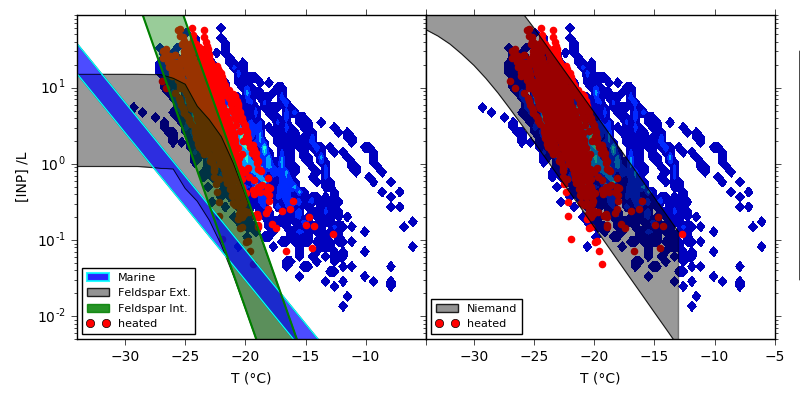
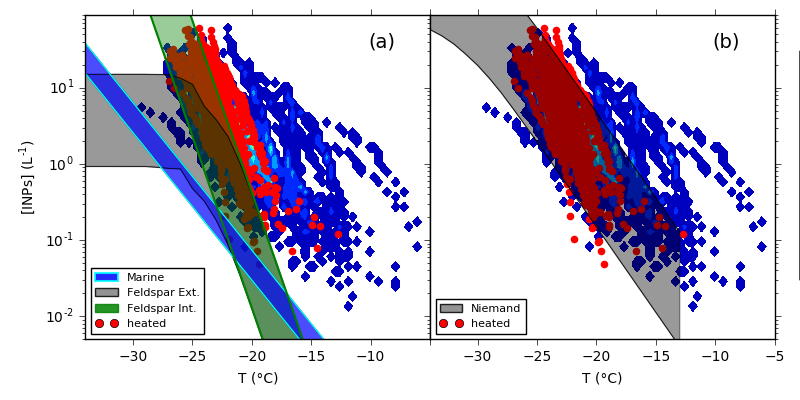
dfasfad

diff --git a/contour4.py b/contour4.py
@@ -275,13 +275,15 @@ ax1.set_yscale('log')
 ax1.set_xlim(-34,-5)
 ax1.set_ylim(0.005,90)
 ax1.set_xlabel('T ('+degree_sign+'C)')
-ax1.set_ylabel('[INP] /L')
+ax1.set_ylabel('[INPs] ($\mathregular{L^{-1}}$)')
 ax1.get_yaxis().set_tick_params(which='both', direction='out')
 ax1.get_xaxis().set_tick_params(which='both', direction='out')
 #ax1.set_title("Feldspar + Marine", fontsize=14)
 ttl1 = ax1.title
 ttl1.set_position([.5, 1.05])
-
+ax1.text(.9,.9,'(a)',
+    horizontalalignment='right',
+    transform=ax1.transAxes, fontsize =14)
 
 
 '''*********************NIEMAND w/ heat************************************************'''
@@ -300,6 +302,7 @@ ax3.set_yscale('log')
 ax3.set_xlim(-34,-5)
 ax3.set_ylim(0.005,90)
 ax3.set_xlabel('T ('+degree_sign+'C)')
+
 #ax0.set_ylabel('[INP] /L')
 ax3.get_yaxis().set_tick_params(which='both', direction='out')
 ax3.get_xaxis().set_tick_params(which='both', direction='out')
@@ -316,7 +319,9 @@ cb = fig.colorbar(p1, cax = cbaxes, label='% of Total Observations', format ='%0
 ticks =cb.locator()
 
 
-
+ax3.text(.9,.9,'(b)',
+    horizontalalignment='right',
+    transform=ax3.transAxes, fontsize =14)
 #p2 =ax2.scatter(x, y, c=z, s=40, edgecolor='', cmap='OrRd')
 
 #ax2.scatter(DMT_T,DMT_I, marker="x", color = "red")
@@ -408,7 +413,7 @@ p1=ax1.contourf(x,y,z, levels = levels, extend = 'max', cmap ='jet', alpha =1 )
 plt.yscale('log'), plt.xlim(-30,-5), plt.ylim(0.01, 300)
 #plt.gca().xaxis.get_major_ticks()[-1].label1.set_visible(False)
 ax1.set_xlabel('T ('+degree_sign+'C)')
-ax1.set_ylabel('[INP] /L')
+ax1.set_ylabel('[INPs] ($\mathregular{L^{-1}}$)')
 #ax1.axes.get_yaxis().set_ticks([])
 
 xticks = ax1.xaxis.get_major_ticks()
@@ -425,50 +430,50 @@ cb = fig1.colorbar(p1, cax = cbaxes,ticks=ticks, label='% of Total Observations'
 #ax1.text(-29, 0.015, '(a)', fontsize = 12)
 
 
-ax2=plt.subplot(142)
-p1=ax2.contourf(x,y,z, levels = levels, extend = 'max', cmap ='jet', alpha =1 )
-ax2.scatter(data_key2['T'], data_key2['INP'], s=14, color='red', zorder=1, label = 'Heated')
+ax5=plt.subplot(142)
+p1=ax5.contourf(x,y,z, levels = levels, extend = 'max', cmap ='jet', alpha =1 )
+ax5.scatter(data_key2['T'], data_key2['INP'], s=14, color='red', zorder=1, label = 'Heated')
 plt.yscale('log'), plt.xlim(-30,-5), plt.ylim(0.01, 300)
 #plt.gca().xaxis.get_major_ticks()[-1].label1.set_visible(False)
-ax2.axes.get_yaxis().set_ticks([])
-ax2.set_xlabel('T ('+degree_sign+'C)')
-xticks = ax2.xaxis.get_major_ticks()
+ax5.axes.get_yaxis().set_ticks([])
+ax5.set_xlabel('T ('+degree_sign+'C)')
+xticks = ax5.xaxis.get_major_ticks()
 xticks[0].set_visible(False)
-plt.legend()
+plt.legend(fontsize =8)
 plt.title('(b) Heated samples')
 
 
-ax3=plt.subplot(143)
+ax6=plt.subplot(143)
 plt.scatter(lowruns_heated_data[:,0], lowruns_heated_data[:,1],s=14, color ='red', label = 'Heated')
 plt.scatter(lowruns_unheated_data[:,0], lowruns_unheated_data[:,1],s=14, color ='black', label ='Untreated')
 plt.yscale('log'), plt.xlim(-30,-5), plt.ylim(0.01, 300)
-ax3.set_xlabel('T ('+degree_sign+'C)')
+ax6.set_xlabel('T ('+degree_sign+'C)')
 
-ax3.axes.get_yaxis().set_ticks([])
-xticks = ax3.xaxis.get_major_ticks()
+ax6.axes.get_yaxis().set_ticks([])
+xticks = ax6.xaxis.get_major_ticks()
 xticks[0].set_visible(False)
 
 
 plt.axvline(-20, linestyle ='dashed', color ='k')
 #ax3.text(-29, 0.015, '(c)', fontsize = 12)
-plt.legend()
+plt.legend(fontsize =8)
 plt.title('(c) Small effect')
 
-ax4=plt.subplot(144)
+ax7=plt.subplot(144)
 plt.scatter(highruns_heated_data[:,0], highruns_heated_data[:,1], s=14, color ='red', label = 'Heated')
 plt.scatter(highruns_unheated_data[:,0], highruns_unheated_data[:,1], s=14, color ='black', label ='Untreated')
 plt.yscale('log'), plt.xlim(-30,-5), plt.ylim(0.01, 300)
-ax4.set_xlabel('T ('+degree_sign+'C)')
-ax4.axes.get_yaxis().set_ticks([])
-xticks = ax4.xaxis.get_major_ticks()
+ax7.set_xlabel('T ('+degree_sign+'C)')
+ax7.axes.get_yaxis().set_ticks([])
+xticks = ax7.xaxis.get_major_ticks()
 xticks[0].set_visible(False)
-plt.legend()
+plt.legend(fontsize =8)
 plt.title('(d) Large effect')
 
 plt.axvline(-20, linestyle ='dashed', color ='k')
-ax4.text(-29, 0.015, '(d)', fontsize = 12)
 
-subplots=[ax1, ax2, ax3, ax4]
+
+subplots=[ax1, ax5, ax6, ax7]
 for ax in subplots:
     ax.get_yaxis().set_tick_params(which='both', direction='out')
     ax.get_xaxis().set_tick_params(which='both', direction='out')

diff --git a/myfuncs.py b/myfuncs.py
@@ -28,3 +28,25 @@ def av_between(start_search, end_search, data, data_index):
 def get_dates_in_column(dataframe_column, fmt):
 
     dataframe_column.apply(datetime.datetime.strptime(fmt))
+    
+def globber(topfolder, key_terms):
+    import os 
+    import glob as glob
+    found_files=[]
+    
+    os.chdir(topfolder)
+    a=glob.glob('*\\')
+    for ifolder in range(len(a)):
+        os.chdir(topfolder+ a[ifolder])
+        
+        #search for files containing keywords       
+        files_in_folder=glob.glob('*key_terms*.csv')
+       #print "found "+" files"
+        
+        for s in range(len(files_in_folder)):
+            if key_terms[0] in files_in_folder[s]:
+                
+        #        print "looking for phrase "+str(key_terms[0])+" in: "+files_in_folder[s]
+                found_files.append(files_in_folder[s])
+                
+    return found_files, a

diff --git a/INPdata_import_plot2.py b/INPdata_import_plot2.py
@@ -310,7 +310,7 @@ for i in range(len(match_word2.locations)):
                      label =core.loc[core_mask]['locations'].iloc[0])
         plt.yscale('log')
         plt.legend()
-        plt.savefig(figfold+str([i])+'.jpg')
+        #plt.savefig(figfold+str([i])+'.jpg')
 print 'matched {} runs'.format(counter)        
 #     4)PLOTS OUTPUT DATA, SAVES FIGURES   
         
@@ -319,7 +319,7 @@ ax_a= plt.scatter(data_key2['T'], data_key2['INP'],color='red',zorder=0)
 ax_b=plt.scatter(data_key1['T'], data_key1['INP'], color='blue')
 plt.yscale('log')
 plt.title('initial runs')
-plt.savefig(figfold+str('initial runs')+'.jpg')
+#plt.savefig(figfold+str('initial runs')+'.jpg')
     
 fig3=plt.figure()
 ax_c= plt.scatter(data_key2['T'], data_key2['INP'], color='red', zorder=0)

diff --git a/correlation_by_av.py b/correlation_by_av.py
@@ -401,6 +401,11 @@ minus15=pd.read_csv('corr atminus15.csv', index_col='Unnamed: 0')
 minus20=pd.read_csv('corr atminus20.csv', index_col='Unnamed: 0')
 minus25=pd.read_csv('corr atminus25.csv', index_col='Unnamed: 0')
 
+minus15.drop(' Max Gust Ctime', axis =1, inplace =True)
+
+minus20.drop(' Max Gust Ctime', axis =1, inplace =True)
+
+minus25.drop(' Max Gust Ctime', axis =1, inplace =True)
 
 x = np.square(minus15.loc['Wind speed':'SMPS Total',['Log10 INPs']].values)
 y = np.square(minus20.loc['Wind speed':'SMPS Total',['Log10 INPs']].values)

diff --git a/hysplits.py b/hysplits.py
@@ -155,7 +155,7 @@ xticks = ax1.xaxis.get_major_ticks()
 xticks[0].label1.set_visible(False)
 #plt.title('[INPs] vs. major origin of back trajectory')
 plt.xlabel('T ('+degree_sign+'C)',fontsize =14)
-plt.ylabel('[INP] /L', fontsize=14)
+plt.ylabel('[INP] $\mathregular{L^{-1}}$', fontsize=14)
 #==============================================================================
 #             continue
 #         

diff --git a/timeseries.py b/timeseries.py
@@ -141,7 +141,7 @@ APS_cols=[u'Date',
 
 df_APS=df_APS[APS_cols]
 df_APS['Total'] = df_APS.loc[:,u'0.542':u'9.647'].sum(axis=1)
-df_APS['day']=df_APS.index.day
+
 df_APS.set_index('datetime', drop =True, inplace=True)
 
 APS = df_APS['Hour'] 
@@ -172,7 +172,7 @@ plt.minorticks_on()
 ax.xaxis.set_minor_locator(minorLocator)
 
 #%%
-#APS_topiv = df['APS']
 
+APS_topiv = df_APS.Date.date
 
 

diff --git a/blanks.py b/blanks.py
@@ -1,0 +1,12 @@
+# -*- coding: utf-8 -*-
+"""
+Created on Thu Sep 14 18:22:46 2017
+
+@author: eardo
+"""
+
+from myfuncs import globber
+
+
+topfolder='W:\\'
+out =globber(topfolder, 'heat')
